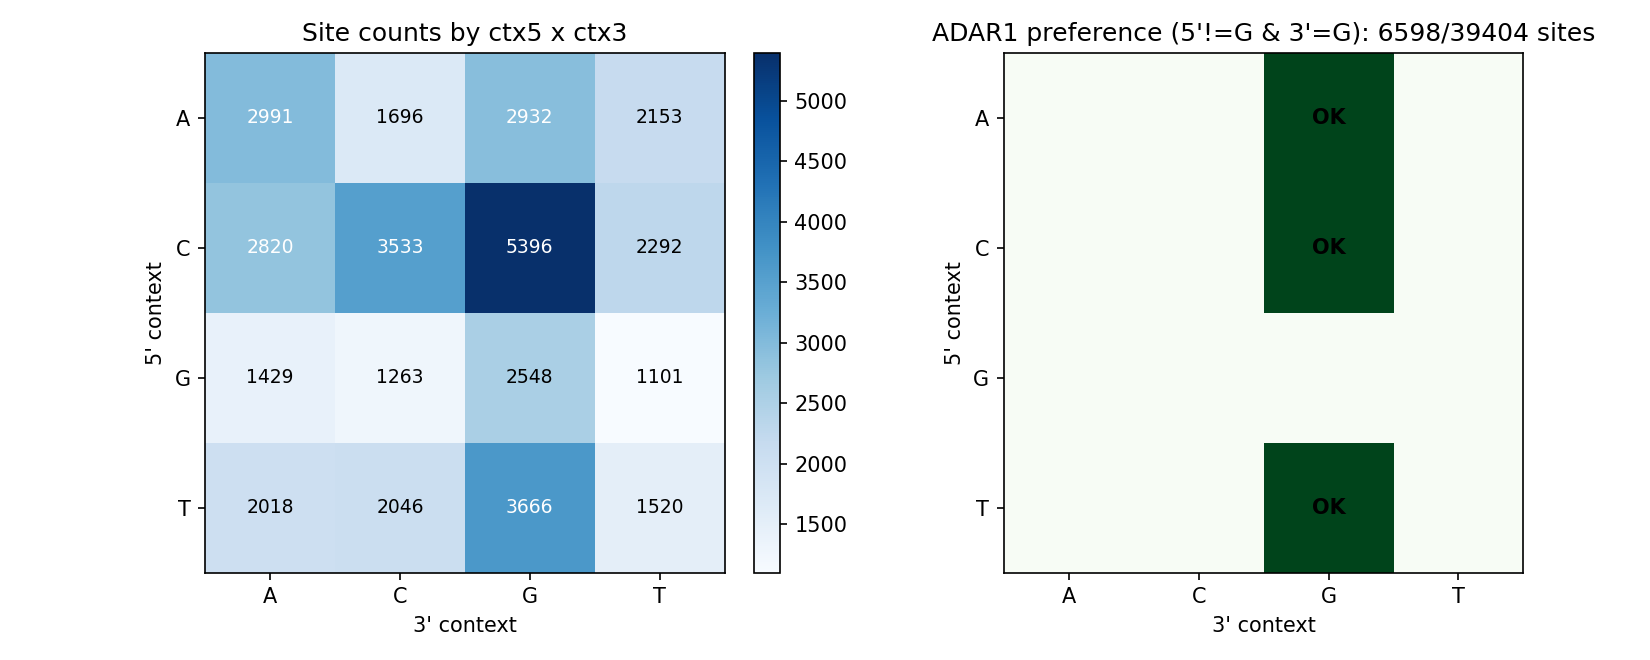
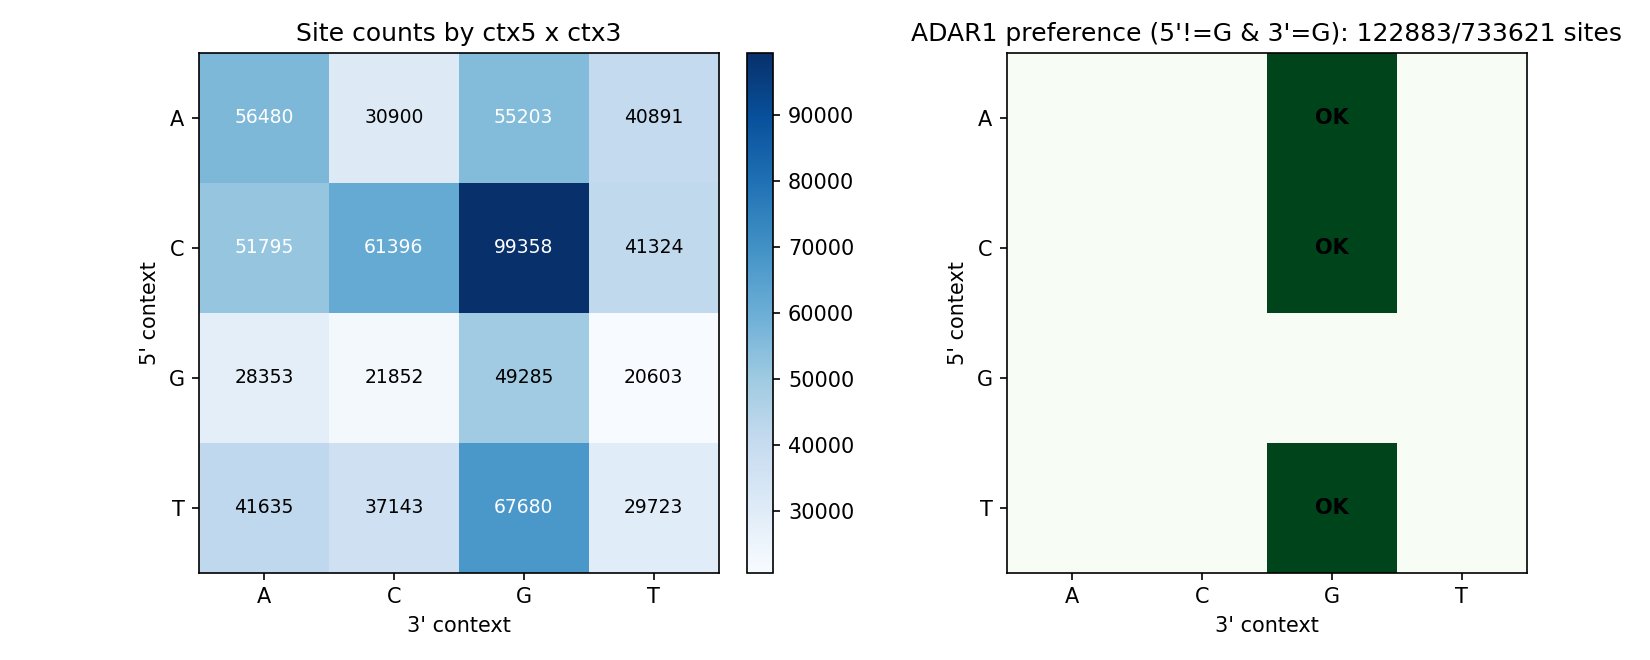
feat(validation): full-genome per-cell PBMC 1k v3 run (1215×733621)
Run PBMC 1k v3 across all autosomes 1-22 + X (Y/MT excluded), per-cell
10x architecture, smoke-grade min_coverage=3. Single healthy donor.

- config: chromosomes 1-22 + X (was chr22+X smoke subset)
- annotate_sites_gtf.py: CHROMS now full autosomes+X (was {22,X}) so
  genome-wide sites get gene context, not just chr22/X
- disk_watchdog.sh: safety net — full-genome per-cell scan transiently
  held ~860GB deleted REDItools temp and hit Errno 28 at ~66%; resumed
  via --rerun-triggers mtime
- docs/SMOKE_PBMC1K.md + regenerated plots: full-genome acceptance
  (nnz 1110844, in_alu 70.4%, adar_motif_ok 16.8%, median 909 sites/cell)

diff --git a/tools/annotate_sites_gtf.py b/tools/annotate_sites_gtf.py
@@ -30,7 +30,7 @@ H5AD_IN = Path("results/anndata/sca2i_input.h5ad")
 H5AD_OUT = Path("results/anndata/sca2i_input.annotated.h5ad")
 TSV_OUT = Path("results/anndata/sites_annotated.tsv")
 GTF = Path("resources/gtf/Homo_sapiens.GRCh38.110.gtf.gz")
-CHROMS = {"22", "X"}
+CHROMS = {str(c) for c in list(range(1, 23)) + ["X"]}
 
 
 def _site_pr(var: pd.DataFrame) -> pr.PyRanges:

diff --git a/docs/SMOKE_PBMC1K.md b/docs/SMOKE_PBMC1K.md
@@ -1,8 +1,19 @@
-# PBMC 1k v3 Per-Cell Smoke Test
+# PBMC 1k v3 Per-Cell Full-Genome Run
 
 End-to-end validation of `sca2i-preprocess` on the 10x Genomics PBMC 1k v3
 public demo with per-barcode 10x architecture (one obs row per cell, not
 pseudobulk by celltype).
+
+This run scans the **full autosomes + X** (not the earlier chr22+X smoke
+subset). Coverage threshold is still the smoke-grade `min_coverage=3`
+(production locks 20), so the site list and AF distribution remain
+smoke-grade — but the genomic scope is now complete.
+
+> **Disk note:** the full-genome per-cell scan transiently consumed
+> ~860 GB of held-open REDItools temp and hit `No space left on device`
+> at ~66%; it was resumed with `--rerun-triggers mtime` after the temp was
+> reclaimed on process exit. Use `tools/disk_watchdog.sh <pid> <min_gb>`
+> as a safety net. /tmp is on the root fs on this host.
 
 ## Inputs
 
@@ -17,12 +28,13 @@ pseudobulk by celltype).
 
 ## Configuration deviations from production
 
-These are smoke-only relaxations; revert before running production batches.
+Only `min_coverage` remains a smoke relaxation on this run; revert before
+running production batches.
 
-| Key | Smoke | Production |
+| Key | This run | Production |
 |---|---|---|
-| `reditools.min_coverage` | 3 | 20 (parent NN#3 lock) |
-| `genome.chromosomes` | `["22", "X"]` | full autosomes + X (Y/MT excluded) |
+| `reditools.min_coverage` | 3 (smoke) | 20 (parent NN#3 lock) |
+| `genome.chromosomes` | full autosomes 1–22 + X (Y/MT excluded) | same |
 | Cells per sample | full 1222 barcodes (filtered_feature_bc_matrix) | full barcode list |
 | Cores | 1 (single-thread) | per-cluster (see `profiles/slurm`) |
 
@@ -57,19 +69,19 @@ PYTHONNOUSERSITE=1 snakemake --use-conda --cores 1 -p --keep-going
 
 | Metric | Value |
 |---|---|
-| shape (cells × sites) | **1186 × 39404** |
-| X dtype, nnz | int32, 56605 |
-| `layers["edits"]` dtype, nnz | int32, 56605 |
+| shape (cells × sites) | **1215 × 733621** |
+| X dtype, nnz | int32, 1110844 |
+| `layers["edits"]` dtype, nnz | int32, 1110844 |
 | `obs.columns` | `sample_id, chemistry, donor, cell_type, cell_barcode` |
 | `var.columns` | `chrom, pos, strand, ref, alt, ctx5, ctx3, adar_motif_ok, in_alu` |
-| Chromosomes seen | `22, X` |
-| `adar_motif_ok=True` | 6598 / 39404 (16.7%) |
-| `in_alu=True` | 29053 / 39404 (73.7%) — matches A-to-I/Alu enrichment literature |
-| Wall time | ~33 min sinto split + ~5h10m downstream (single core) |
-| Snakemake jobs | 13411 / 13411 |
+| Chromosomes seen | `1–22, X` (23 contigs) |
+| `adar_motif_ok=True` | 122883 / 733621 (16.8%) |
+| `in_alu=True` | 516239 / 733621 (70.4%) — matches A-to-I/Alu enrichment literature |
+| Wall time | full genome, single core, multi-day (disk-full interrupt + `--rerun-triggers mtime` resume) |
+| Snakemake jobs | 105094 total (resumed; final 17733 / 17733) |
 
-36 cells of 1222 dropped: zero candidate edits passing `min_coverage=3` on
-chr22 + chrX.
+7 cells of 1222 dropped: zero candidate edits passing `min_coverage=3`
+across the full genome.
 
 ## Diagnostic plots
 
@@ -78,19 +90,18 @@ Generated with `tools/plot_smoke_results.py` from
 
 | Stat | Value |
 |---|---|
-| median sites/cell | 46 |
-| max sites/cell    | 146 |
-| min sites/cell    | 1 |
+| median sites/cell | 909 |
+| max sites/cell    | 3216 |
 | mean AF           | 0.91 |
 | median AF         | 1.00 |
-| nonzero (cell, site) entries | 56605 |
+| nonzero (cell, site) entries | 1110844 |
 | chr22 sites / chrX sites | 18108 / 21296 |
-| `adar_motif_ok` sites | 6598 / 39404 (16.7%) |
+| `adar_motif_ok` sites | 122883 / 733621 (16.8%) |
 
 ### 1. Per-cell detection rate
 
-Cells ranked by number of covered sites. Long tail across the 1186 cells
-that survived the `min_coverage=3` filter; median 46, max 146.
+Cells ranked by number of covered sites. Long tail across the 1215 cells
+that survived the `min_coverage=3` filter; median 909, max 3216.
 
 ![sites per cell](img/smoke_pbmc1k/01_sites_per_cell.png)
 
@@ -106,24 +117,25 @@ Production `min_coverage=20` will spread this out.
 ### 3. Motif context (ctx5 × ctx3)
 
 Left: counts of candidate sites by 5′ and 3′ neighbouring base.
-Right: ADAR1 preference mask (5′ ≠ G AND 3′ = G). 6598 / 39404 sites
-(16.7%) match. This is annotation-only; we do not drop non-preferred
+Right: ADAR1 preference mask (5′ ≠ G AND 3′ = G). 122883 / 733621 sites
+(16.8%) match. This is annotation-only; we do not drop non-preferred
 sites at the preprocess stage.
 
 ![motif heatmap](img/smoke_pbmc1k/03_motif_context_heatmap.png)
 
 ### 4. Sites per chromosome
 
-Stacked by `adar_motif_ok`. chrX contributes ~18% more sites than chr22
-(21296 vs 18108).
+Stacked by `adar_motif_ok`. Full autosomes + X; chr1 leads (67825 sites),
+chr21 is smallest of the autosomes (7088). A→G and T→C are near-balanced
+across the cohort (374181 vs 359440) — the same A-to-I edit observed on
+opposite reference strands.
 
 ![chrom breakdown](img/smoke_pbmc1k/04_chrom_breakdown.png)
 
 ### 5. Sparsity pattern
 
-Coverage matrix `X` (1186 cells × 39404 sites) is extremely sparse
-(nnz=56605, density ≈ 0.12%). The two diagonal bands correspond to the
-chr22 and chrX site ranges respectively.
+Coverage matrix `X` (1215 cells × 733621 sites) is extremely sparse
+(nnz=1110844, density ≈ 0.12%).
 
 ![sparsity](img/smoke_pbmc1k/05_sparsity_pattern.png)
 
@@ -131,7 +143,7 @@ chr22 and chrX site ranges respectively.
 
 To connect the candidate edit sites back to standard scRNA-seq analysis we
 (a) annotate each site against Ensembl r110 and (b) embed the full 1222-cell
-PBMC matrix, overlay the 1186 cells that survived editing-side QC, and
+PBMC matrix, overlay the 1215 cells that survived editing-side QC, and
 look at per–cell-type editing.
 
 The plots below are produced by `tools/annotate_sites_gtf.py` +
@@ -143,17 +155,18 @@ The plots below are produced by `tools/annotate_sites_gtf.py` +
 
 | Bucket | Count |
 |---|---|
-| exon       | 5135  |
-| intron     | 26944 |
-| intergenic | 7325  |
-| protein_coding host | 28534 |
-| lncRNA host         | 3203  |
+| exon       | 92312  |
+| intron     | 549795 |
+| intergenic | 91514  |
+| protein_coding host | 588233 |
+| lncRNA host         | 46294  |
 
-Top host genes (chr22+X): TNRC6B (1284), DIAPH2 (589), PPP6R2 (472),
-TBC1D22A (441), STAG2 (413), TBL1X (333), GRK3 (322), MRTFA (309). Most
-candidate sites land in introns of protein-coding genes — consistent
-with the expected enrichment of A-to-I editing inside SINE/Alu repeats
-embedded in introns.
+Top host genes (full genome): WWOX (1766), ARHGEF18 (1567), PITPNC1 (1358),
+PRKCB (1353), CAMK1D (1350), RABGAP1L (1297), TNRC6B (1284), CUX1 (1083),
+ADK (1068), MALAT1 (944). Most candidate sites land in introns of
+protein-coding genes (549795 / 733621 ≈ 75%) — consistent with the
+expected enrichment of A-to-I editing inside SINE/Alu repeats embedded
+in introns (in_alu = 70.4%).
 
 ![gene annotation](img/smoke_pbmc1k/09_gene_annotation_breakdown.png)
 
@@ -171,10 +184,10 @@ Cluster sizes: Mono_CD14=385, T_naive=356, B=186, NK=178, DC=8.
 
 ### 8. Editing cells overlaid on the full UMAP
 
-The 1186 cells that survived editing-side QC (red) cover essentially the
-entire PBMC UMAP. 1111/1186 also pass expression-side QC and land inside
-a cluster; 75 are dropped by `min_genes=200` / `pct_mt<20%` and don't
-show up.
+The 1215 cells that survived editing-side QC (red) cover essentially the
+entire PBMC UMAP. 1113/1215 also pass expression-side QC and land inside
+a cluster; the rest are dropped by `min_genes=200` / `pct_mt<20%` and
+don't show up.
 
 ![umap overlay](img/smoke_pbmc1k/07_umap_smoke_overlay.png)
 
@@ -188,7 +201,7 @@ edits (Σ `k`), number of covered sites, and global AF = Σk/Σn.
 ### 10. Editing rate by cell type
 
 Per-cell global AF, grouped by the leiden-inferred cell type, across the
-1111 cells with both expression and editing data. With smoke
+1113 cells with both expression and editing data. With smoke
 `min_coverage=3` most cells sit at AF≈1; production `min_coverage=20`
 will spread this out. The cell-count panel on the right shows how
 editing-side coverage distributes across the 5 PBMC populations.
@@ -203,7 +216,7 @@ conda env create -n sca2i-analyze -f workflow/envs/analyze.yaml
 #   - or -
 docker build -f docker/Dockerfile -t sca2i-analyze:latest .
 
-# One-time: Ensembl GTF for chr22/X gene annotation
+# One-time: Ensembl GTF for genome-wide gene annotation
 mkdir -p resources/gtf && curl -fsSL -o \
     resources/gtf/Homo_sapiens.GRCh38.110.gtf.gz \
     https://ftp.ensembl.org/pub/release-110/gtf/homo_sapiens/Homo_sapiens.GRCh38.110.gtf.gz
@@ -240,8 +253,8 @@ PYTHONNOUSERSITE=1 conda run -n sca2i-analyze python tools/analyze_with_scanpy.p
   never matched (RepeatMasker `.out` puts the family name in column 10
   and the class string `SINE/Alu` in column 11). Now `$11 == "SINE/Alu"`,
   which captures every Alu subfamily. `resources/alu/alu.bed` goes from 0
-  to 1,238,995 intervals; `in_alu=True` on this run is 29053 / 39404
-  (73.7%), consistent with the A-to-I editing literature.
+  to 1,238,995 intervals; `in_alu=True` on this full-genome run is
+  516239 / 733621 (70.4%), consistent with the A-to-I editing literature.
 
 ## Runtime env requirement
 
